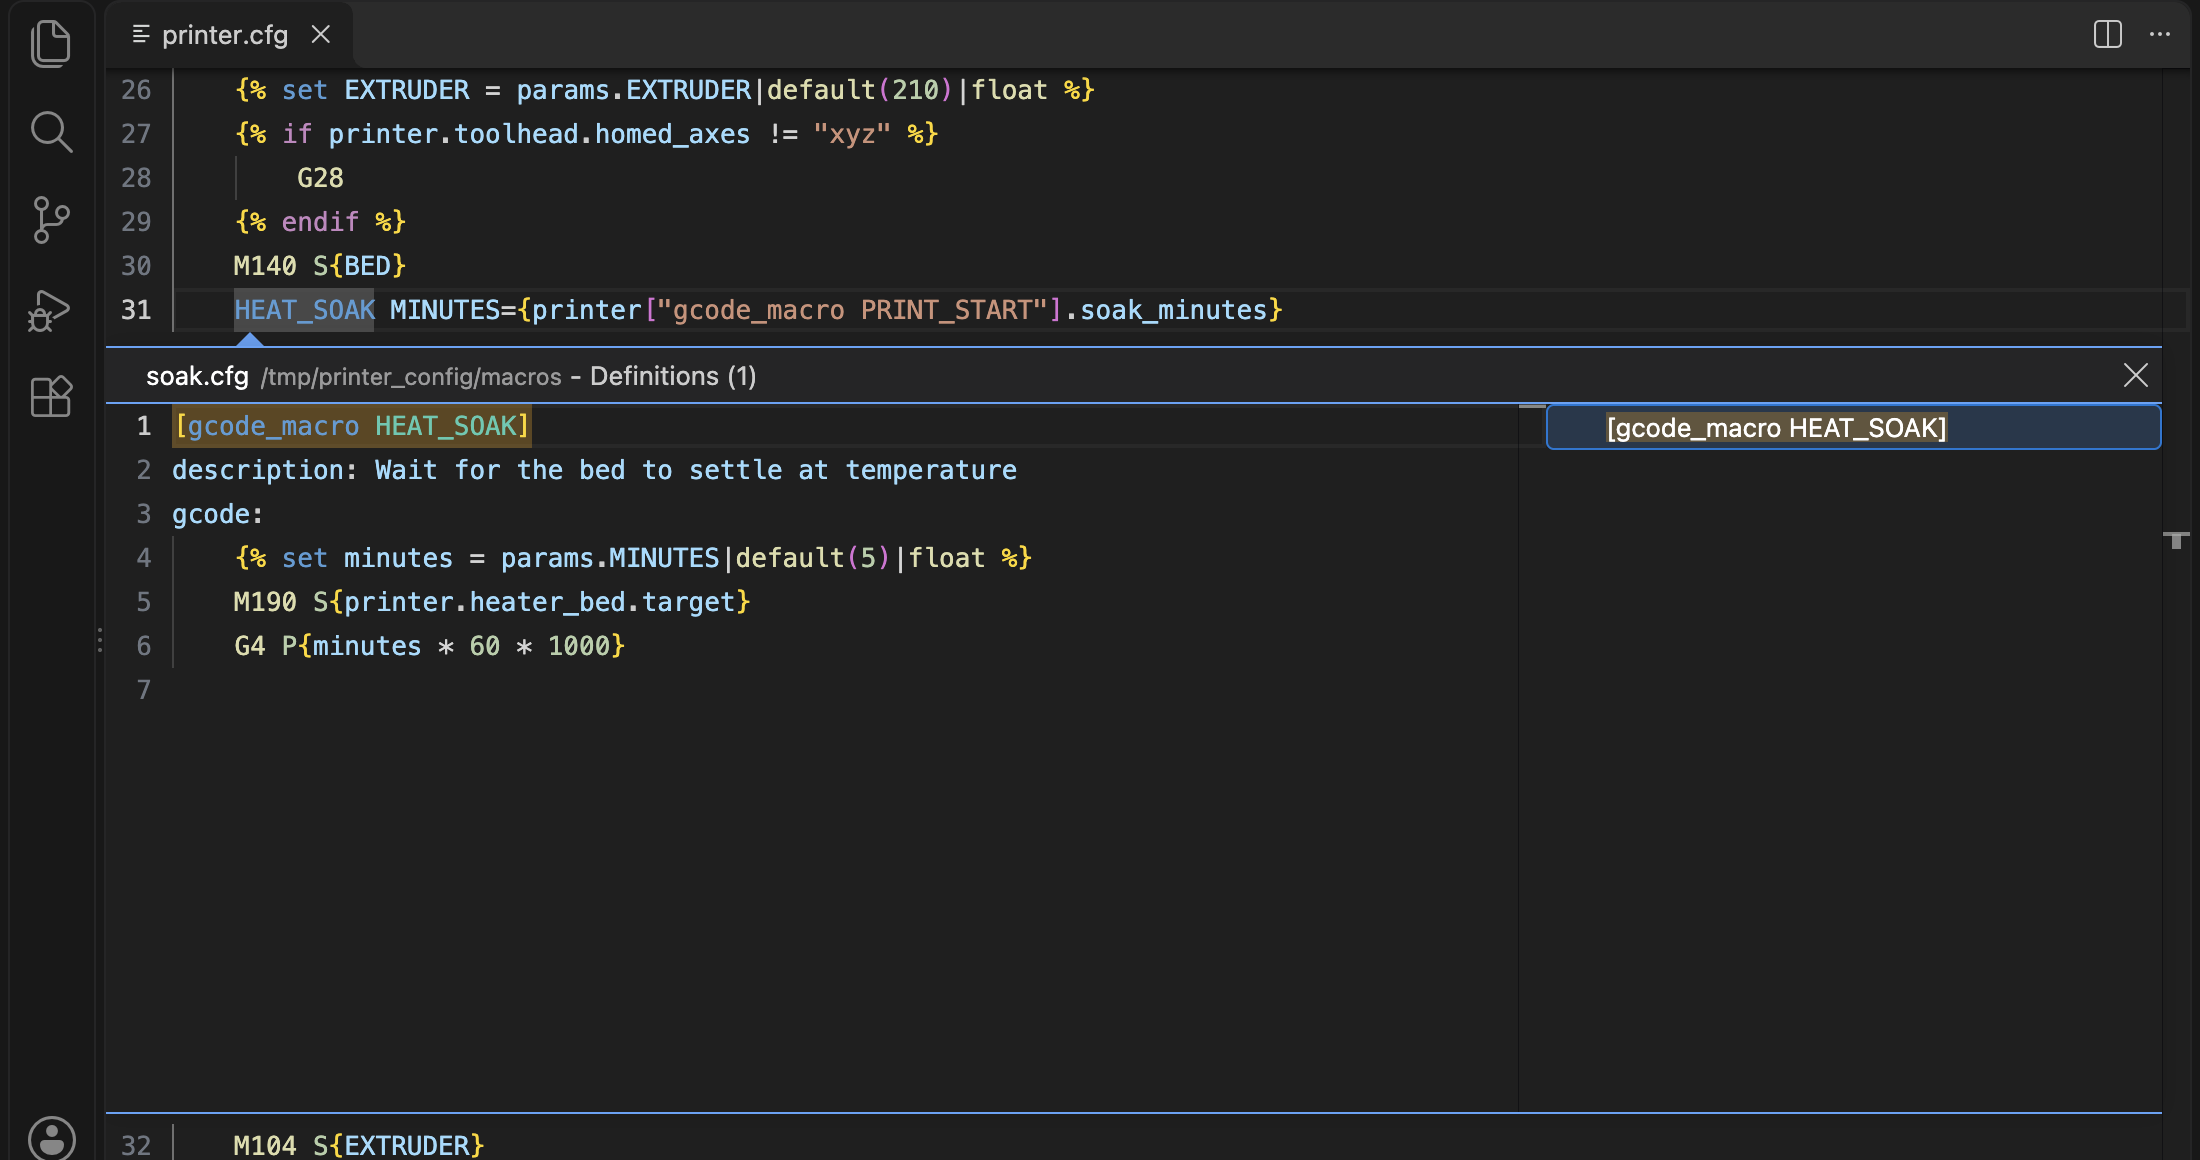
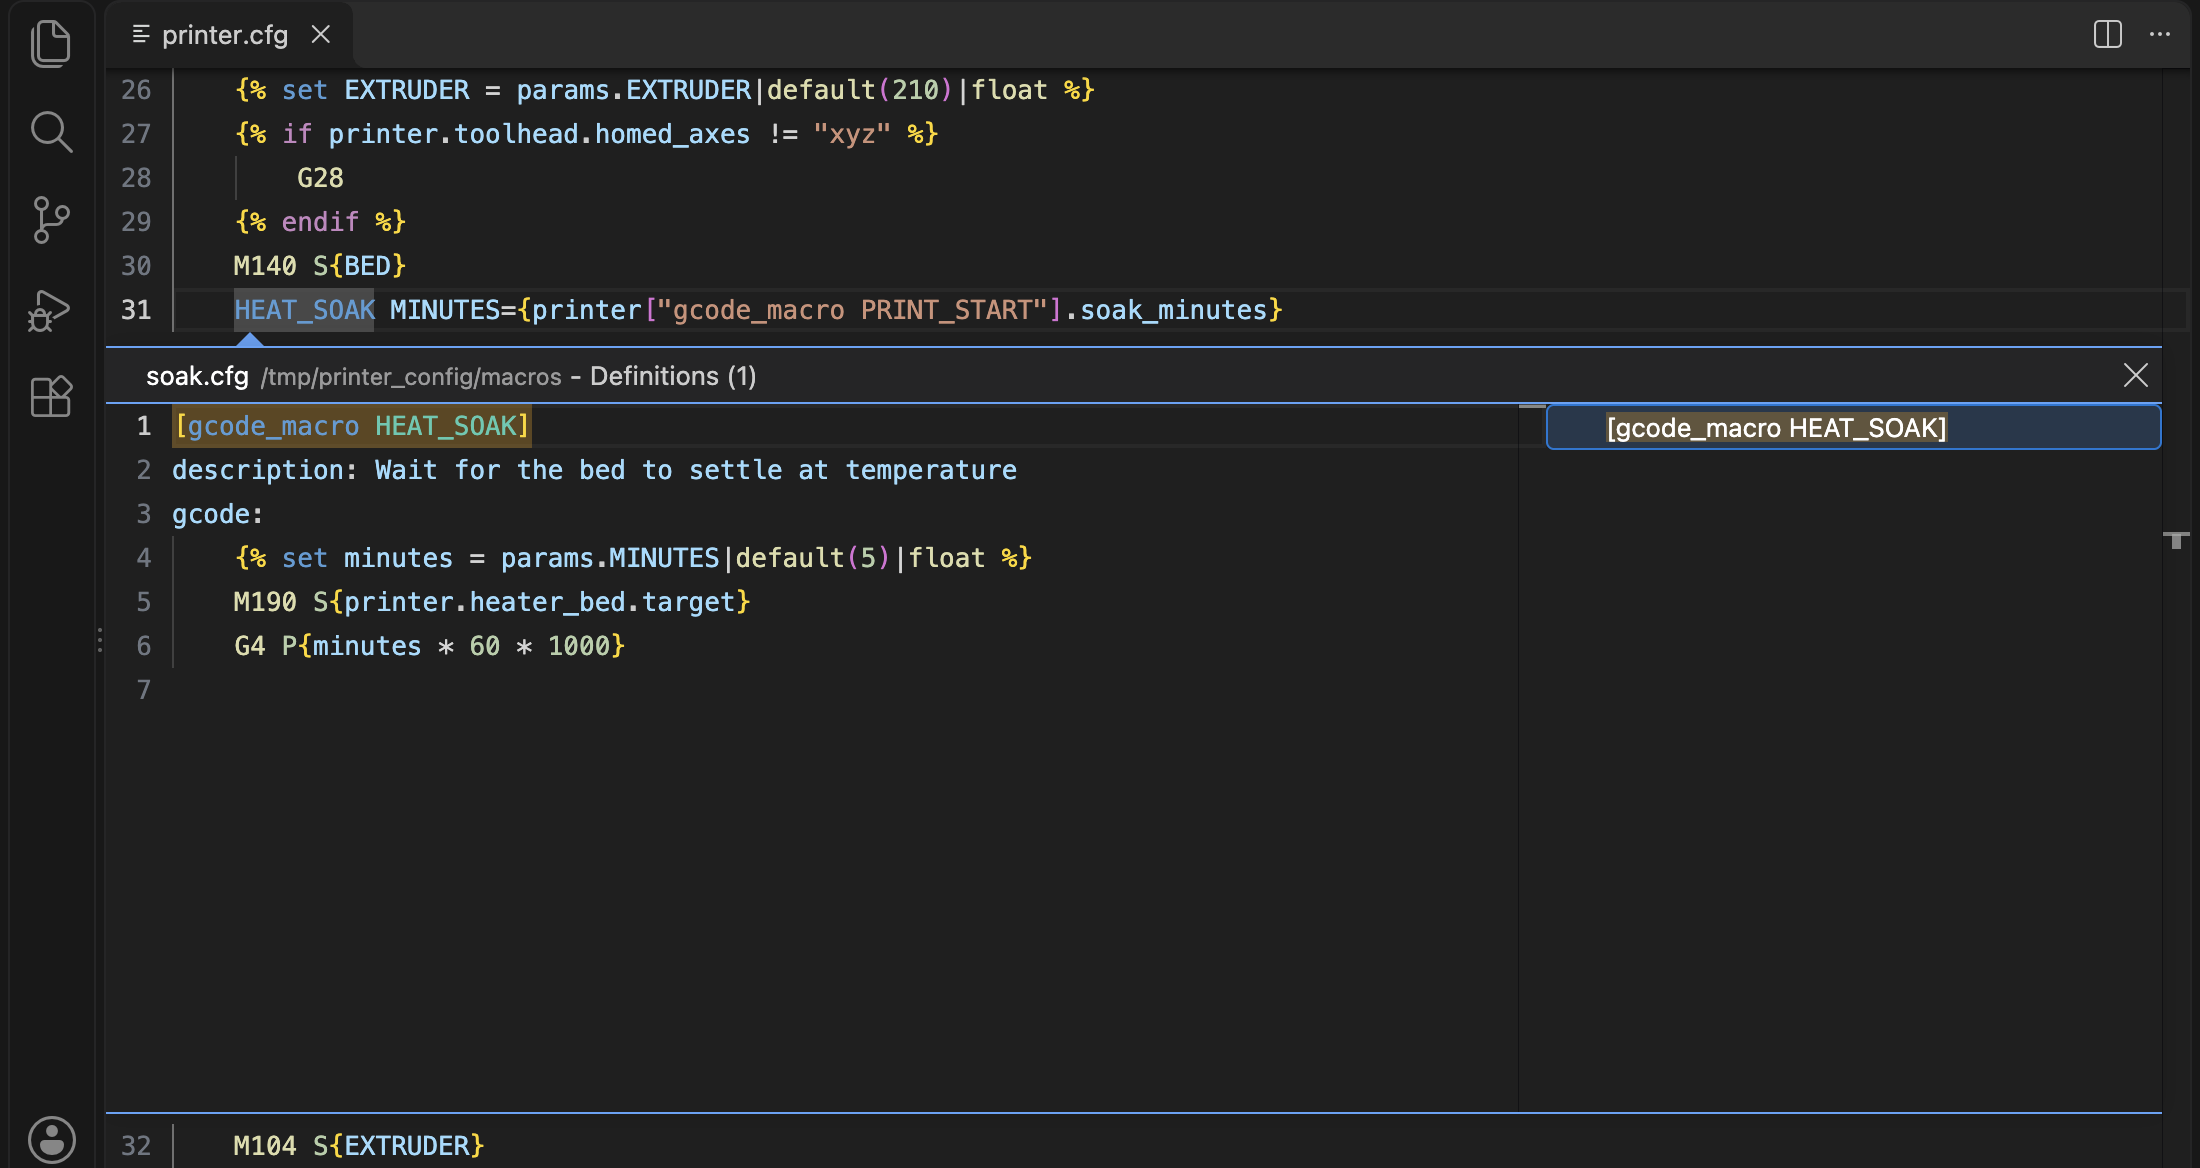
Screenshots: trim the peek image to whole lines

diff --git a/editors/vscode-klipper-ls/test/screenshots/suite.ts b/editors/vscode-klipper-ls/test/screenshots/suite.ts
@@ -29,7 +29,7 @@ interface Shot {
 
 const SHOTS: Shot[] = [
   { name: "hover-macro", file: "printer.cfg", at: "HEAT_SOAK MINUTES", keep: 345, width: 1100, show: "hover", expect: "Wait for the bed" },
-  { name: "peek-definition", file: "printer.cfg", at: "HEAT_SOAK MINUTES", keep: 580, width: 1100, show: "peek" },
+  { name: "peek-definition", file: "printer.cfg", at: "HEAT_SOAK MINUTES", keep: 584, width: 1100, show: "peek" },
   { name: "hover-status-field", file: "printer.cfg", at: "homed_axes !=", keep: 280, width: 1100, show: "hover", expect: "homed" },
   { name: "hover-config-option", file: "printer.cfg", at: "rotation_distance", keep: 380, width: 1100, show: "hover", expect: "Distance" },
   { name: "hover-gcode-ignored-parameter", file: "sample.gcode", at: "M140 S60", keep: 430, width: 1100, show: "hover", expect: "Ignored by Klipper" },
